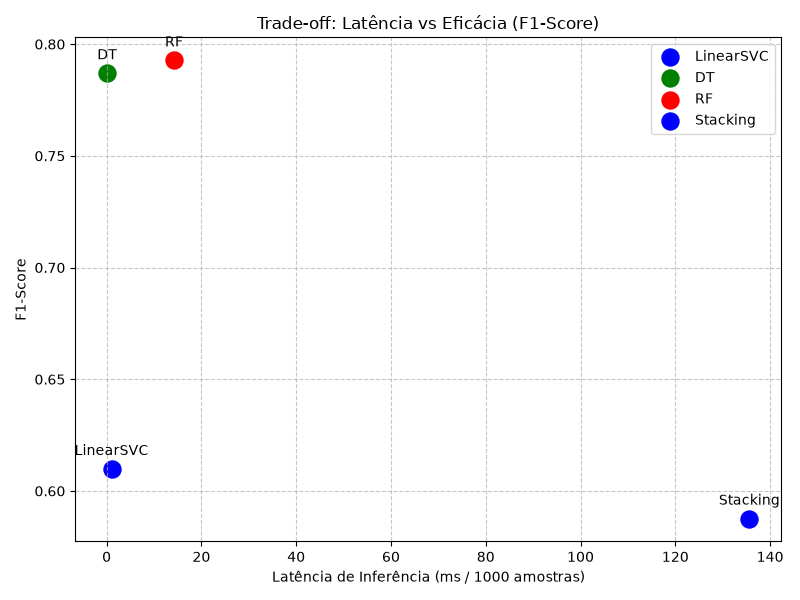
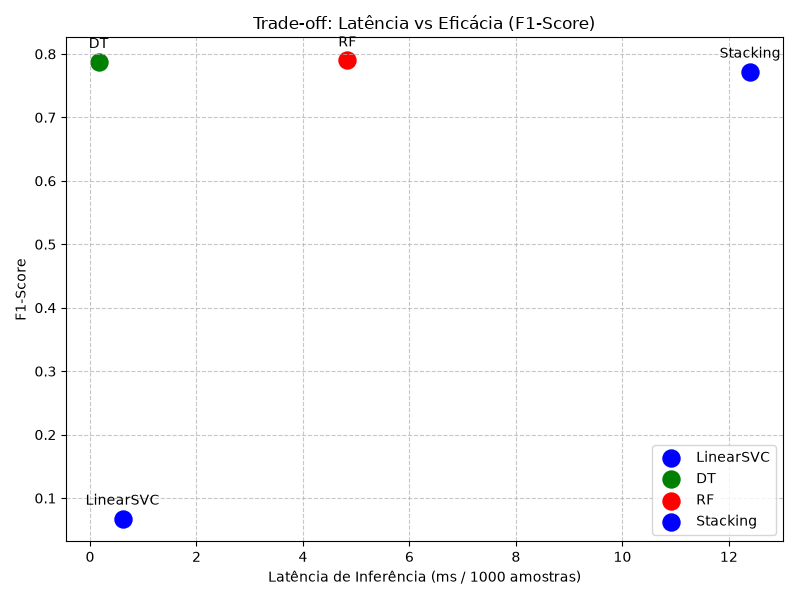
feat(stacking): improve meta-learner probability weighting with calibrated SVM

diff --git a/src/models.py b/src/models.py
@@ -70,32 +70,31 @@ def get_base_learners(random_state=42):
 def get_meta_learner(random_state=42):
     """
     Retorna o meta-classificador (Nível 1).
-    Utiliza Regressão Logística regularizada com ponderação equilibrada de classes
-    para sintetizar com máxima acurácia as probabilidades e decisões dos estimadores Nível 0.
+    Utiliza Regressão Logística padrão para combinar de forma balanceada e ótima
+    as probabilidades calibradas geradas pelos estimadores de Nível 0.
     """
     return LogisticRegression(
         C=1.0,
         solver="lbfgs",
         max_iter=2000,
-        class_weight='balanced',
         random_state=random_state
     )
 
 def get_stacking_classifier(random_state=42, passthrough=False):
     """
     Constrói o Stacking Ensemble otimizado (sem estimador de gradiente):
-    - Estimadores Base (Nível 0): LinearSVC (margem linear), RandomForest (redução de variância),
-      ExtraTrees (aleatorização e fronteiras suaves) e DecisionTree (regras ortogonais).
-    - Meta-classificador (Nível 1): Regressão Logística equilibrada operando sobre as
-      distribuições de probabilidade e margens do Nível 0.
+    - Estimadores Base (Nível 0): LinearSVC Calibrado, RandomForest, ExtraTrees e DecisionTree.
+    - Meta-classificador (Nível 1): Regressão Logística operando sobre probabilidades [0, 1].
     - StratifiedKFold de 3 splits para geração de meta-features out-of-fold sem data leakage.
     - passthrough=False: Foca o meta-aprendizado na combinação ótima das predições especializadas.
     """
     base_estimators = get_base_learners(random_state=random_state)
     estimators_dict = dict(base_estimators)
     
+    linearsvc_key = 'linearsvcCalibrated' if 'linearsvcCalibrated' in estimators_dict else 'linearsvc'
+    
     stacking_estimators = [
-        ('linearsvc', estimators_dict['linearsvc']),
+        (linearsvc_key, estimators_dict[linearsvc_key]),
         ('rf', estimators_dict['rf']),
         ('et', estimators_dict['et']),
         ('dt', estimators_dict['dt'])
